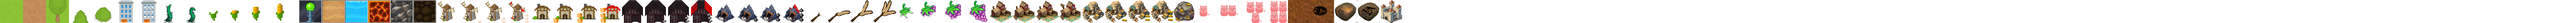
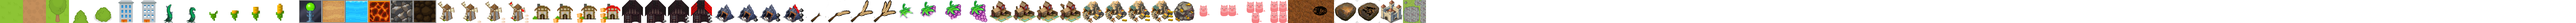
nouvelle tile

Changed region(s): [[0.5312, 0.0, 0.5625, 1.0]]

diff --git a/assets/js/map.js b/assets/js/map.js
@@ -2,10 +2,10 @@ abs1 = [
         3, 3, 3, 3, 3, 3, 3, 3, 3, 3, 3, 3, 3, 3, 3, 3, 3, 3, 3, 3, 3, 3, 3, 3, 1, 1, 1, 1, 1, 1, 1, 1, 1, 1, 1, 1, 1, 1, 1, 1, 1, 1, 1, 1, 1, 1, 1, 3,
         3, 1, 1, 1, 1, 1, 1, 1, 1, 1, 1, 1, 1, 1, 1, 1, 1, 1, 1, 1, 1, 1, 1, 3, 1, 1, 1, 1, 1, 1, 1, 1, 1, 1, 1, 1, 1, 1, 1, 1, 1, 1, 1, 1, 1, 1, 1, 3,
         3, 1, 1, 1, 1, 1, 1, 1, 1, 1, 1, 1, 1, 1, 1, 1, 1, 1, 1, 1, 1, 1, 1, 1, 1, 1, 1, 1, 1, 1, 1, 1, 1, 1, 1, 1, 1, 1, 1, 1, 1, 1, 1, 1, 1, 1, 1, 1,
+        3, 1, 62, 1, 1, 1, 1, 1, 1, 1, 1, 1, 1, 1, 1, 1, 1, 1, 1, 1, 1, 1, 1, 1, 1, 1, 1, 1, 1, 1, 1, 1, 1, 1, 1, 1, 1, 1, 1, 1, 1, 1, 1, 1, 1, 1, 1, 1,
         3, 1, 1, 1, 1, 1, 1, 1, 1, 1, 1, 1, 1, 1, 1, 1, 1, 1, 1, 1, 1, 1, 1, 1, 1, 1, 1, 1, 1, 1, 1, 1, 1, 1, 1, 1, 1, 1, 1, 1, 1, 1, 1, 1, 1, 1, 1, 1,
-        3, 1, 1, 1, 1, 1, 1, 1, 1, 1, 1, 1, 1, 1, 1, 1, 1, 1, 1, 1, 1, 1, 1, 1, 1, 1, 1, 1, 1, 1, 1, 1, 1, 1, 1, 1, 1, 1, 1, 1, 1, 1, 1, 1, 1, 1, 1, 1,
-        3, 1, 1, 1, 1, 1, 1, 1, 1, 1, 1, 1, 1, 1, 1, 1, 1, 1, 1, 1, 1, 1, 1, 1, 1, 1, 1, 1, 1, 1, 1, 1, 1, 1, 1, 1, 1, 1, 1, 1, 1, 1, 1, 1, 1, 1, 1, 1,
-        3, 1, 1, 1, 1, 1, 1, 1, 1, 1, 1, 1, 1, 1, 1, 1, 1, 1, 1, 1, 1, 1, 1, 1, 1, 1, 1, 1, 1, 1, 1, 1, 1, 1, 1, 1, 1, 1, 1, 1, 1, 1, 1, 1, 1, 1, 1, 3,
+        3, 1, 62, 1, 1, 1, 1, 1, 1, 1, 1, 1, 1, 1, 1, 1, 1, 1, 1, 1, 1, 1, 1, 1, 1, 1, 1, 1, 1, 1, 1, 1, 1, 1, 1, 1, 1, 1, 1, 1, 1, 1, 1, 1, 1, 1, 1, 1,
+        3, 1, 1, 62, 62, 1, 1, 1, 1, 1, 1, 1, 1, 1, 1, 1, 1, 1, 1, 1, 1, 1, 1, 1, 1, 1, 1, 1, 1, 1, 1, 1, 1, 1, 1, 1, 1, 1, 1, 1, 1, 1, 1, 1, 1, 1, 1, 3,
         3, 1, 1, 1, 1, 1, 1, 1, 1, 1, 1, 1, 1, 1, 1, 1, 1, 1, 1, 1, 1, 1, 1, 1, 1, 1, 1, 1, 1, 1, 1, 1, 1, 1, 1, 1, 1, 1, 1, 1, 1, 1, 1, 1, 1, 1, 1, 3,
         3, 1, 1, 1, 1, 1, 1, 1, 1, 1, 1, 1, 1, 1, 1, 1, 1, 1, 1, 1, 1, 1, 1, 1, 1, 1, 1, 1, 1, 1, 1, 1, 1, 1, 1, 1, 1, 1, 1, 1, 1, 1, 1, 1, 1, 1, 1, 3,
         3, 1, 1, 1, 1, 1, 1, 1, 1, 1, 1, 1, 1, 1, 1, 1, 1, 1, 1, 1, 1, 1, 1, 1, 1, 1, 1, 1, 1, 1, 1, 1, 1, 1, 1, 1, 1, 1, 1, 1, 1, 1, 1, 1, 1, 1, 1, 3,

diff --git a/assets/js/hero.js b/assets/js/hero.js
@@ -73,10 +73,10 @@ function Hero(map, x, y, life, fatigue, attaque, defense, xp, equipement) {
 			})
 			
 			
-			Game.nameBuild = new Building(map, x+32, y, map.getCol(x)+1, map.getRow(y), life, nameBuild, typeBatiment, caracteristique, typeTile, solid);
+			Game.nameBuild = new Building(map, x+map.tsize/2, y, map.getCol(x)+1, map.getRow(y), life, nameBuild, typeBatiment, caracteristique, typeTile, solid);
 			builds[map.getCol(x)+1+'-'+map.getRow(y)]=Game.nameBuild;
 
-			anim = new animation(map, x+32, y, 'cloud');
+			anim = new animation(map, x+map.tsize/2, y, 'cloud');
 			menussclick = 0; // pour que le sous menu se referme
 		}
 	}
